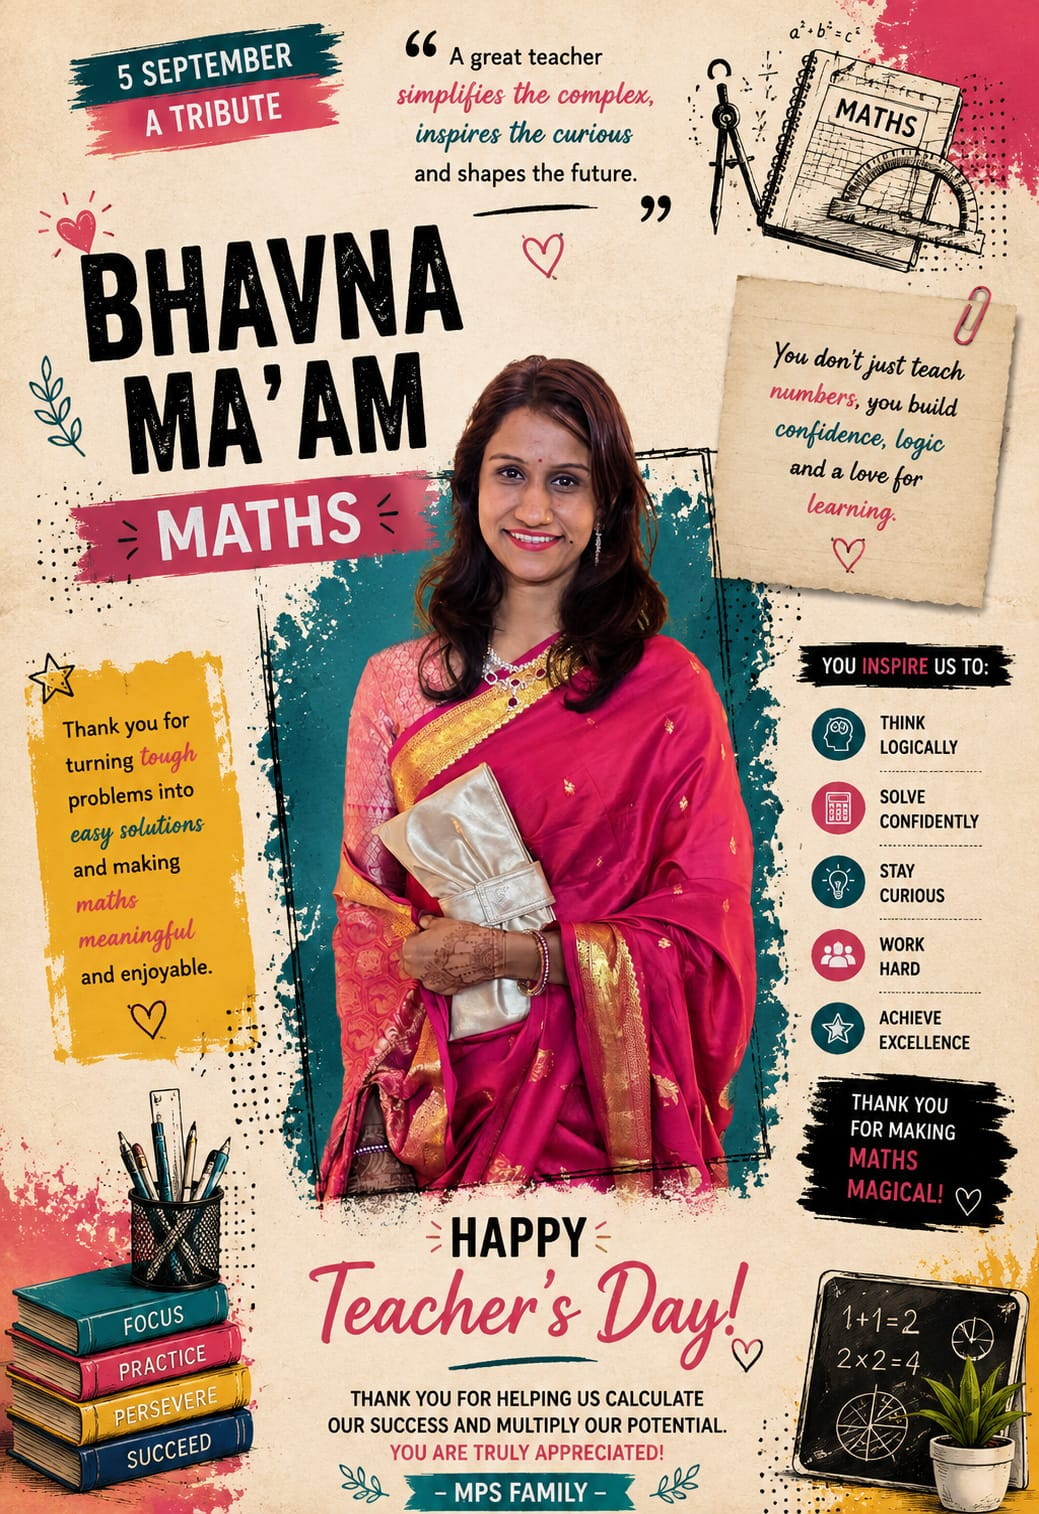
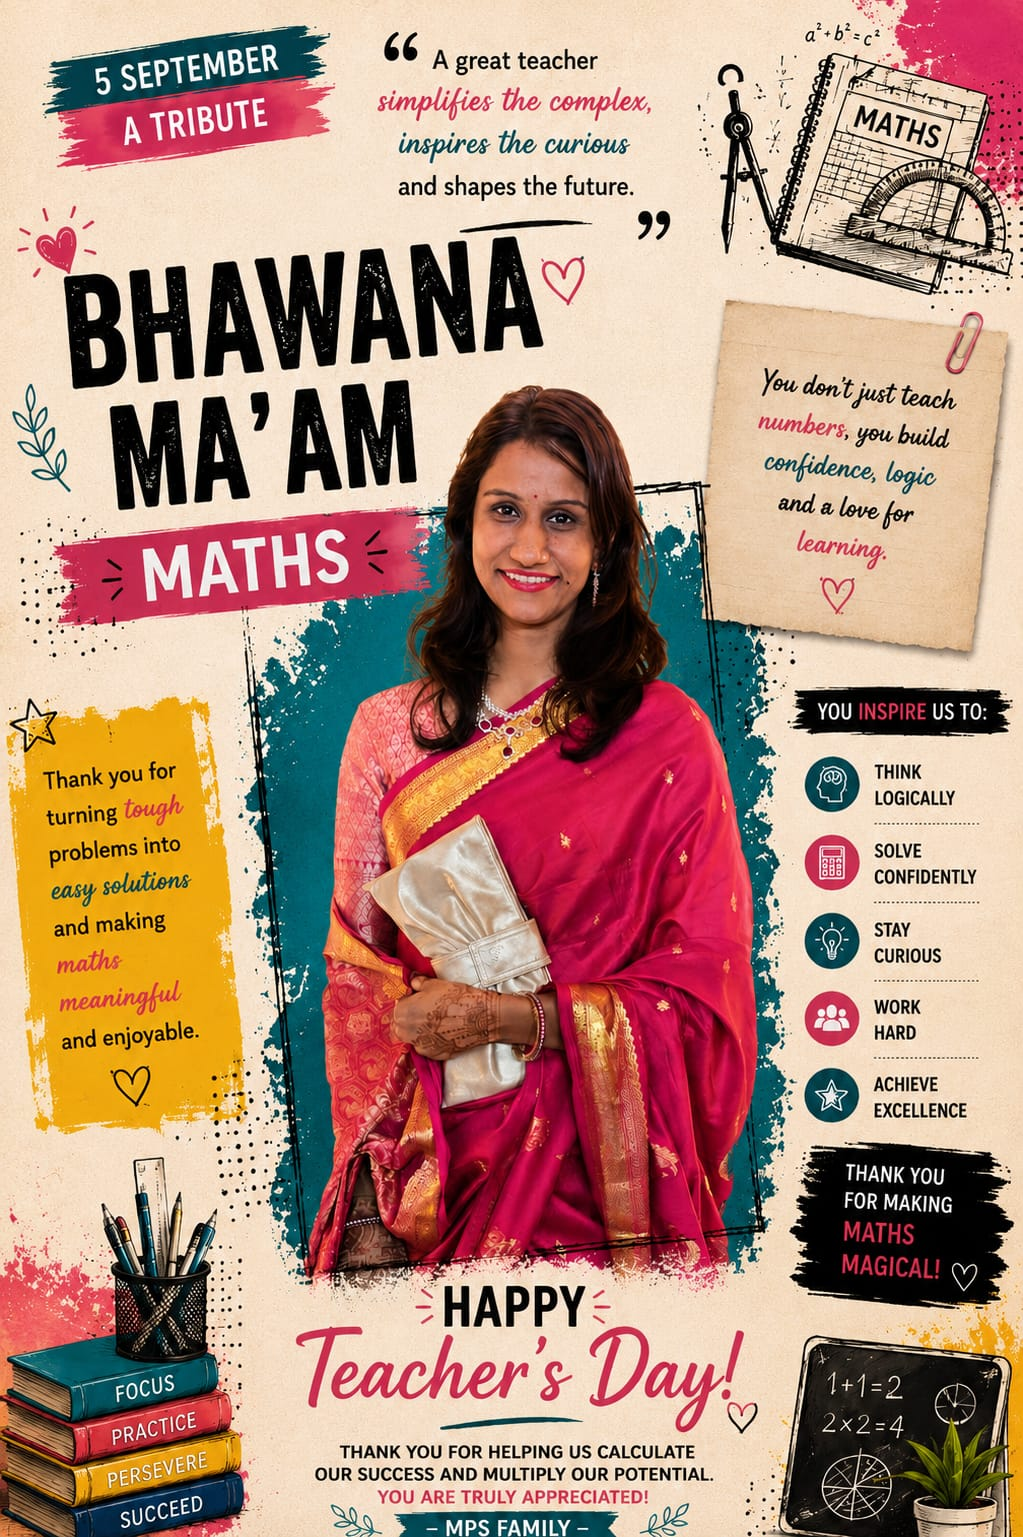
feat: add 5 new teachers - Bharti, Nikita(2), Prerna Art, Shipra(2), Vijayshree(2)

diff --git a/teachers-db.js b/teachers-db.js
@@ -1084,5 +1084,80 @@ const TEACHERS_DATABASE = [
     "role": "The Steadfast Leader",
     "cardImg": "cards/yogesh_sir_manager.jpeg",
     "quote": "A great manager builds a team. A true leader builds people and creates a legacy. Thank you for your leadership, guidance, and constant support. Your vision and dedication drive us to achieve more every day. — MPS"
+  },
+  {
+    "id": "bharti_maam_motherteacher",
+    "name": "Bharti Ma'am",
+    "aliases": [
+      "bharti",
+      "bharti maam",
+      "bharti mam",
+      "bharti ma'am",
+      "bharti mother teacher"
+    ],
+    "subject": "Mother Teacher",
+    "role": "The Mother Teacher",
+    "cardImg": "cards/bharti_maam_motherteacher.jpeg",
+    "quote": "For nurturing our earliest memories with warmth, patience, and endless love. Happy Teacher's Day! — MPS FAMILY"
+  },
+  {
+    "id": "nikita_maam_motherteacher_2",
+    "name": "Nikita Ma'am",
+    "aliases": [
+      "nikita",
+      "nikita maam",
+      "nikita mam",
+      "nikita ma'am",
+      "nikita mother teacher 2"
+    ],
+    "subject": "Mother Teacher",
+    "role": "The Mother Teacher",
+    "cardImg": "cards/nikita_maam_motherteacher (2).jpeg",
+    "quote": "For nurturing our earliest memories with warmth, patience, and endless love. Happy Teacher's Day! — MPS FAMILY"
+  },
+  {
+    "id": "prerna_maam_art",
+    "name": "Prerna Ma'am",
+    "aliases": [
+      "prerna",
+      "prerna maam",
+      "prerna mam",
+      "prerna ma'am",
+      "prerna art"
+    ],
+    "subject": "Art",
+    "role": "The Creative Spark",
+    "cardImg": "cards/prerna_maam_art.jpeg",
+    "quote": "For teaching us to see the world through colours, creativity, and imagination. Your art inspires our hearts. — MPS FAMILY"
+  },
+  {
+    "id": "shipra_maam_coordinator_2",
+    "name": "Shipra Ma'am",
+    "aliases": [
+      "shipra",
+      "shipra maam",
+      "shipra mam",
+      "shipra ma'am",
+      "shipra coordinator 2"
+    ],
+    "subject": "Coordinator",
+    "role": "Coordinator",
+    "cardImg": "cards/shipra_maam_coordinator (2).jpeg",
+    "quote": "Thank you for leading with vision, guiding with wisdom, and inspiring excellence in everything you do. — MPS FAMILY"
+  },
+  {
+    "id": "vijayshree_maam_motherteacher_2",
+    "name": "Vijayshree Ma'am",
+    "aliases": [
+      "vijayshree",
+      "vijayshree maam",
+      "vijayshree mam",
+      "vijayshree ma'am",
+      "vijayshree mother teacher 2"
+    ],
+    "subject": "Mother Teacher",
+    "role": "The Mother Teacher",
+    "cardImg": "cards/vijayshree_maam_motherteacher (2).jpeg",
+    "quote": "For nurturing our earliest memories with warmth, patience, and endless love. Happy Teacher's Day! — MPS FAMILY"
   }
 ];
